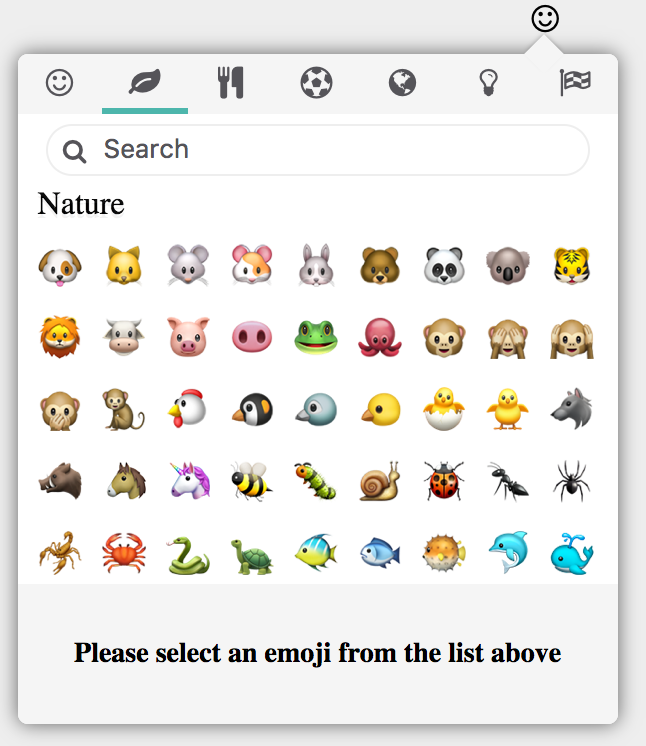
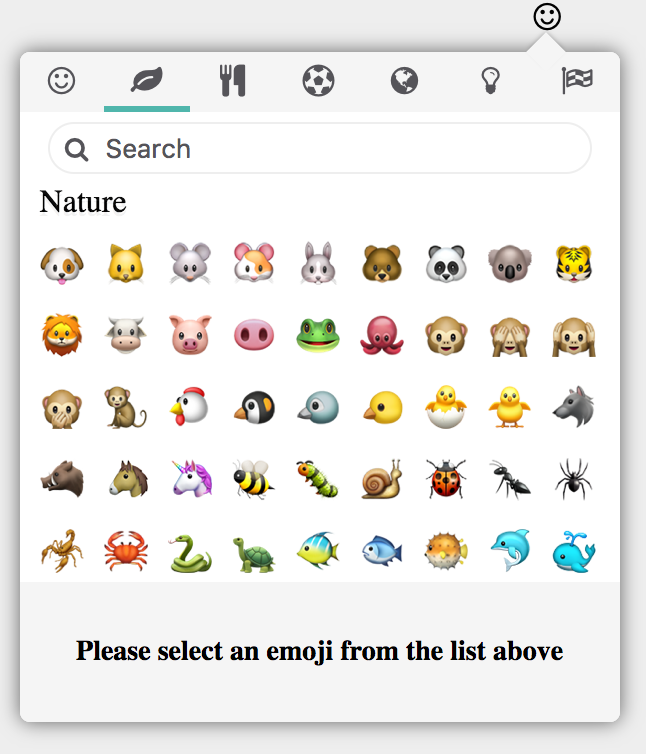
Updated example image.

diff --git a/src/scss/emojipicker.scss b/src/scss/emojipicker.scss
@@ -146,7 +146,7 @@ $footer_height : 70px;
   display        : table-cell;
   vertical-align : top;
   line-height    : 30px;
-  height : 30px;
+  height         : 30px;
   //width          : calc(100% / 7);
   text-align     : center;
   color          : #555459;
@@ -196,11 +196,11 @@ $footer_height : 70px;
 }
 
 .search-section {
-  position    : relative;
-  display     : inline-block;
-  vertical-align: middle;
-  height      : 100%;
-  line-height : 24px;
+  position       : relative;
+  display        : inline-block;
+  vertical-align : middle;
+  height         : 100%;
+  line-height    : 24px;
 }
 
 .search-section.centered {
@@ -218,27 +218,31 @@ $footer_height : 70px;
 }
 
 .search-emojis {
-  width    : 100%;
-  height   : 85%;
-  font-size: 13px;
-  color     : #555459;
-  display  : block;
-  position : relative;
-  outline  : none;
-  border   : none;
+  width      : 100%;
+  height     : 85%;
+  font-size  : 13px;
+  color      : #555459;
+  display    : block;
+  position   : relative;
+  outline    : none;
+  border     : none;
+  margin-top : 1px;
 }
 
 .search-emojis::-webkit-input-placeholder { /* Chrome/Opera/Safari */
-  color     : #555459;
+  color : #555459;
 }
+
 .search-emojis::-moz-placeholder { /* Firefox 19+ */
-  color     : #555459;
+  color : #555459;
 }
+
 .search-emojis:-ms-input-placeholder { /* IE 10+ */
-  color     : #555459;
+  color : #555459;
 }
+
 .search-emojis:-moz-placeholder { /* Firefox 18- */
-  color     : #555459;
+  color : #555459;
 }
 
 .emoji-title-overlay {

diff --git a/dist/emojipicker.css b/dist/emojipicker.css
@@ -191,7 +191,8 @@
   display: block;
   position: relative;
   outline: none;
-  border: none; }
+  border: none;
+  margin-top: 1px; }
 
 .search-emojis::-webkit-input-placeholder {
   /* Chrome/Opera/Safari */
